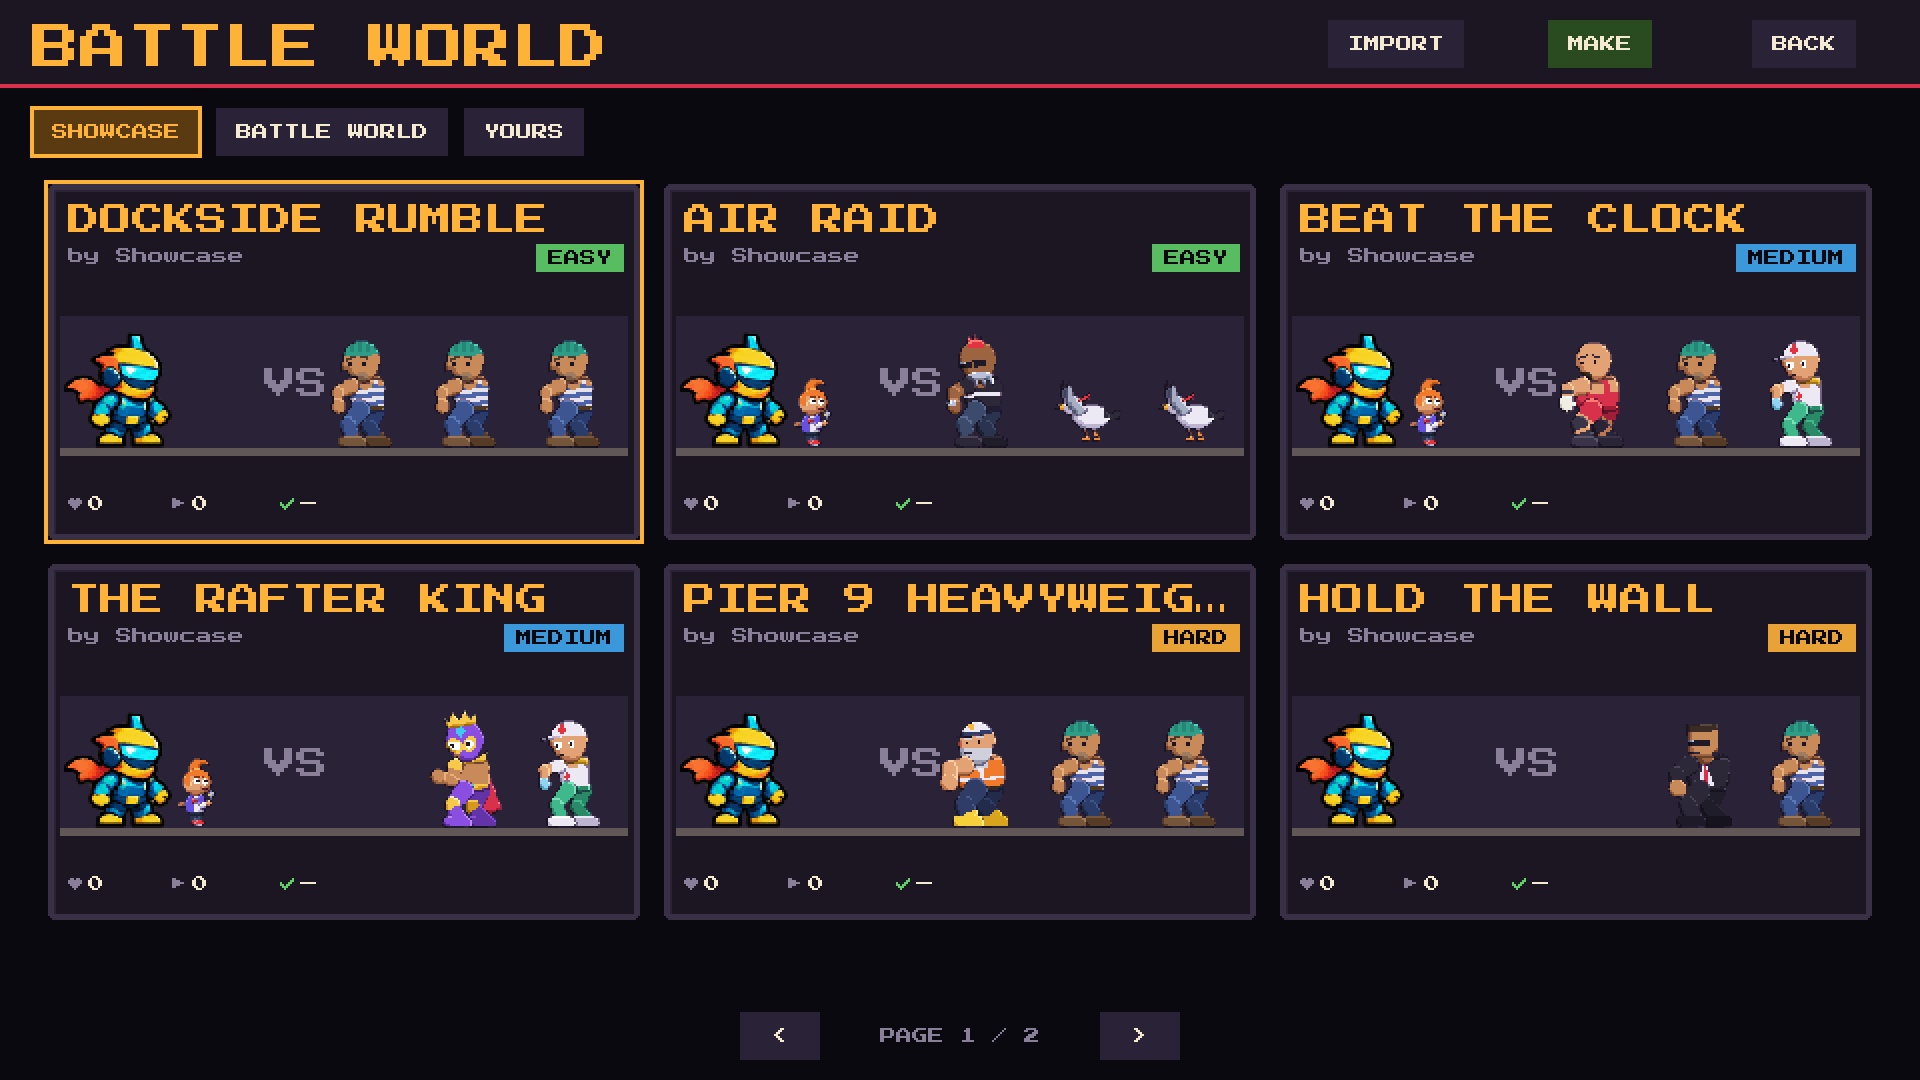
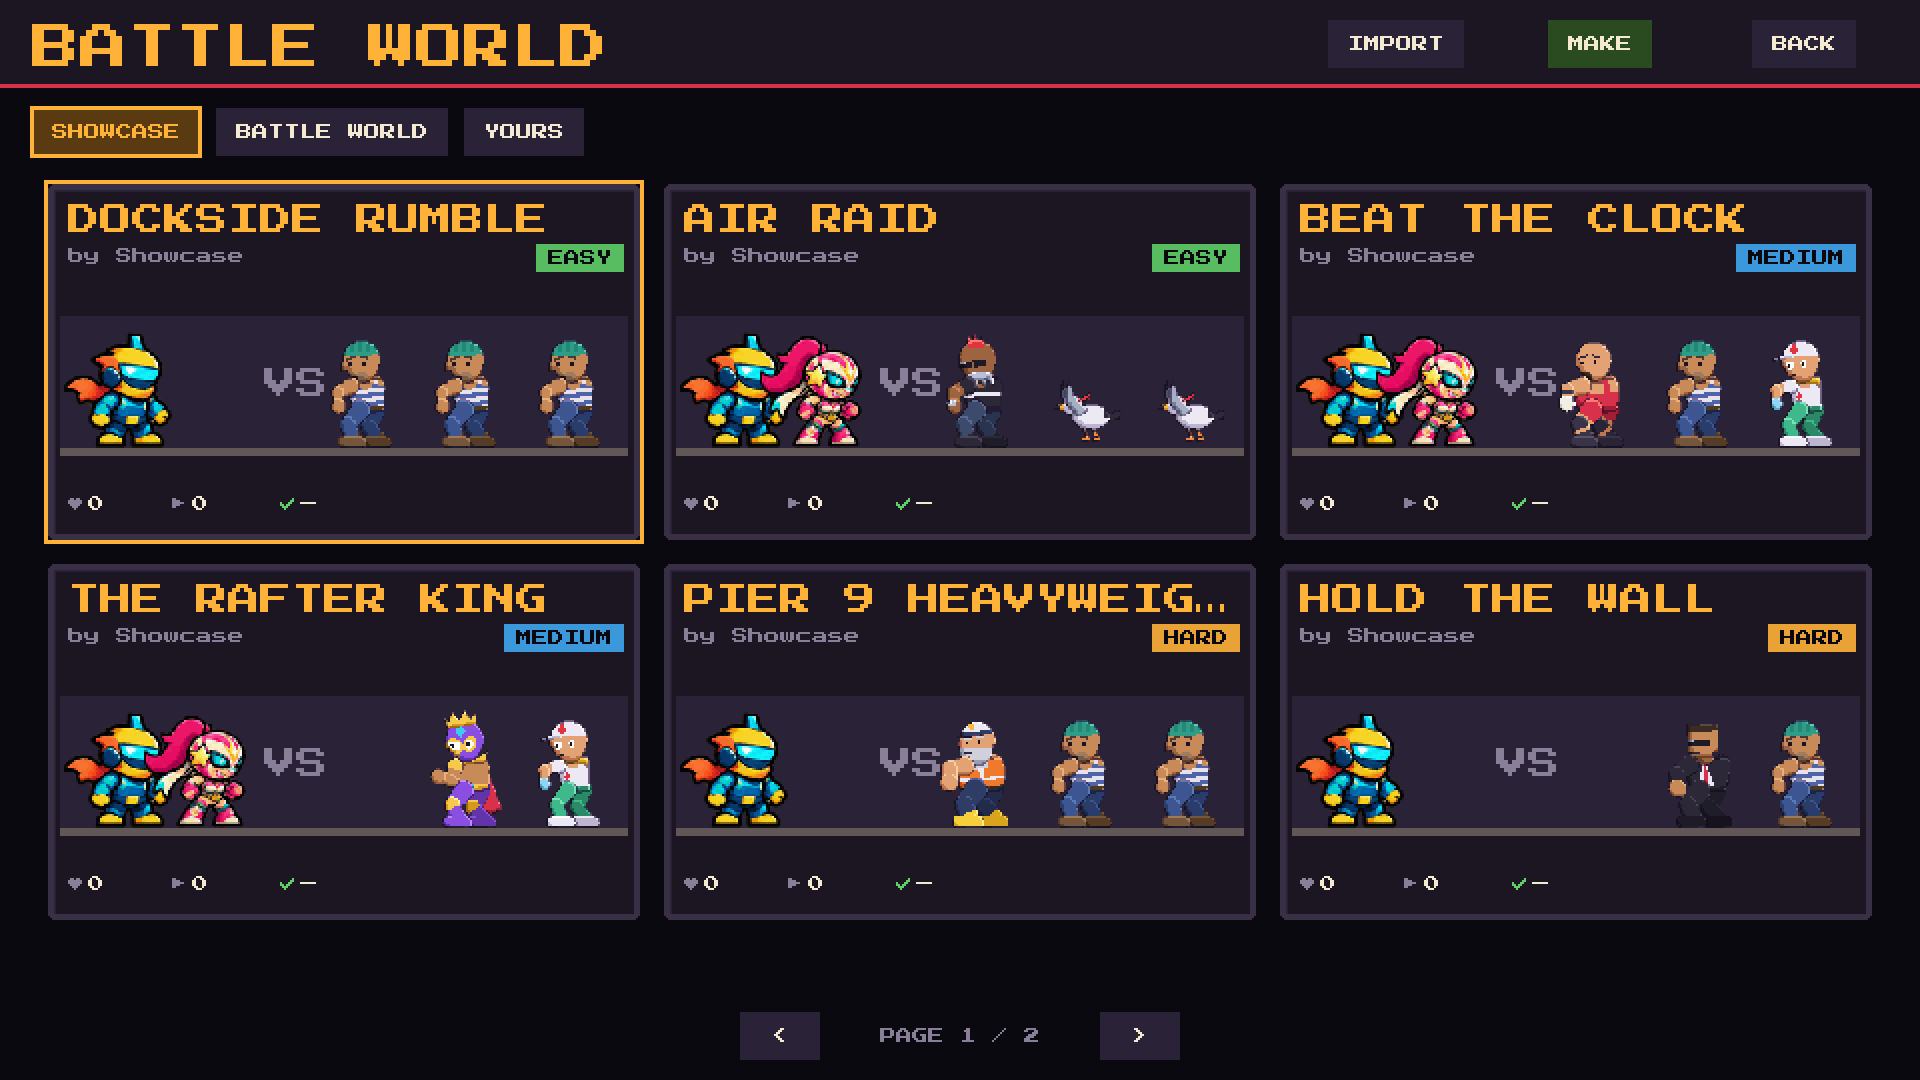
Pip's new look: the painted sidekick sheet, re-cut onto 96-px frames
tools/art/recut_painted.py re-cuts painted sheets whose rows and columns drift:
each row anchored on its floor, frames split at the narrowest gaps, one square
window for all, scaled and reduced to 256 colours. Source kept in
art/sprites/pip_v2_source.png; the first Pip as art/sprites/pip_v1.png.
Store screenshots refreshed.

Claude-Session: https://claude.ai/code/session_01QyvaQ22fJeH4nYnXb7669o

Changed region(s): [[0.7188, 0.3056, 0.7812, 0.4278], [0.375, 0.3056, 0.4688, 0.4278], [0.0625, 0.6417, 0.125, 0.7639]]

diff --git a/src/systems/opponent_art.ts b/src/systems/opponent_art.ts
@@ -1,5 +1,6 @@
 // The built-in fighters' finished art (the opponents and Pip, the partner): frame-by-frame sprite sheets drawn by
-// tools/art/opponents.py and tools/art/pip.py (one row per animation, like Kid Chispa's). They
+// tools/art/opponents.py, and Pip's painted sheet re-cut by tools/art/recut_painted.py from
+// art/sprites/pip_v2_source.png (one row per animation, like Kid Chispa's). They
 // replace the placeholder boxes wherever an opponent appears, unless you gave
 // it a skin.
 
@@ -19,7 +20,11 @@ import rafterKing from '../assets/opponents/rafter_king.png';
 import pip from '../assets/opponents/pip.png';
 
 /** The usual rows: idle 4, walk 8, attack 6, hurt 3, knocked out 4, victory 4. */
-function look(url: string, frame: number, fps: Partial<Record<'idle' | 'walk' | 'chop', number>> = {}): SheetLook {
+function look(
+  url: string,
+  frame: number,
+  fps: Partial<Record<'idle' | 'walk' | 'chop', number>> = {},
+): SheetLook {
   return {
     url,
     w: frame * 8,
@@ -47,7 +52,21 @@ export const OPPONENT_ART: Record<string, SheetLook> = {
   agent_brick: look(agentBrick, 240, { idle: 4, walk: 8, chop: 9 }),
   tugboat_tony: look(tugboatTony, 144, { idle: 4, walk: 10, chop: 10 }),
   rafter_king: look(rafterKing, 144),
-  pip: look(pip, 120, { idle: 5, walk: 12, chop: 10 }),
+  pip: {
+    url: pip,
+    w: 768,
+    h: 576,
+    frameW: 96,
+    frameH: 96,
+    anims: {
+      idle: { start: 0, count: 6, fps: 6 },
+      walk: { start: 8, count: 8, fps: 12 },
+      chop: { start: 16, count: 8, fps: 16 },
+      hurt: { start: 24, count: 4, fps: 12 },
+      ko: { start: 32, count: 6, fps: 10 },
+      win: { start: 40, count: 6, fps: 8 },
+    },
+  },
 };
 
 export const artKey = (id: string) => `spr_art_${id}`;

diff --git a/tools/art/recut_painted.py b/tools/art/recut_painted.py
@@ -1,0 +1,72 @@
+"""Re-cuts a painted sprite sheet whose rows and columns drift onto the game's grid.
+
+Each row is anchored on its own floor line. Each frame's left and right edges
+are found per row: the row is split into its frame count at the narrowest gaps
+in the drawing (near where an even split would put them), so frames joined by
+slash effects or stars are still cut between the figures. Every frame is put
+through the same square window (feet on the bottom, column centred), scaled to
+the game's frame size and reduced to 256 colours.
+
+Usage:
+  python3 tools/art/recut_painted.py SRC OUT --frame 96 \\
+      --bands 0:196,202:392,395:581,592:761,774:907,911:1085 --counts 6,8,8,4,6,6
+
+--bands are each row's top and floor (its feet) in the source, --counts the
+frames in each row. --window sets the square taken around each frame (default:
+the widest frame or tallest row, whichever is bigger).
+"""
+import argparse
+from PIL import Image
+
+ap = argparse.ArgumentParser()
+ap.add_argument("src")
+ap.add_argument("out")
+ap.add_argument("--frame", type=int, default=96)
+ap.add_argument("--bands", required=True)
+ap.add_argument("--counts", required=True)
+ap.add_argument("--window", type=int, default=0)
+ap.add_argument("--search", type=int, default=40, help="how far from an even split a cut may move")
+ap.add_argument("--haze", type=int, default=24, help="alpha below this becomes see-through")
+args = ap.parse_args()
+
+im = Image.open(args.src).convert("RGBA")
+alpha = im.getchannel("A").point(lambda v: 255 if v > 60 else 0)
+apx = alpha.load()
+F = args.frame
+bands = [tuple(int(v) for v in b.split(":")) for b in args.bands.split(",")]
+counts = [int(c) for c in args.counts.split(",")]
+
+
+def edges(top, floor, n):
+    """The n+1 x positions between this row's frames."""
+    col = [sum(1 for y in range(top, floor + 1) if apx[x, y]) for x in range(im.width)]
+    drawn = [x for x, v in enumerate(col) if v > 1]
+    x0, x1 = drawn[0], drawn[-1] + 1
+    out = [x0]
+    for k in range(1, n):
+        guess = out[-1] + (x1 - out[-1]) / (n - k + 1)
+        lo, hi = int(guess - args.search), int(guess + args.search)
+        best = min(range(max(out[-1] + 20, lo), min(x1 - 20, hi)), key=lambda x: (col[x], abs(x - guess)))
+        out.append(best)
+    out.append(x1)
+    return out
+
+
+rows = [(top, floor, edges(top, floor, n)) for (top, floor), n in zip(bands, counts)]
+widest = max(e[i + 1] - e[i] for _, _, e in rows for i in range(len(e) - 1))
+tallest = max(floor - top + 1 for top, floor, _ in rows)
+Wn = args.window or max(widest, tallest)
+cols = max(8, max(counts))
+sheet = Image.new("RGBA", (F * cols, F * len(bands)), (0, 0, 0, 0))
+for r, (top, floor, e) in enumerate(rows):
+    print(f"row {r}: floor {floor}, frames at {e}")
+    for c in range(len(e) - 1):
+        x0, x1 = e[c], e[c + 1]
+        part = im.crop((x0, max(top, floor + 1 - Wn), x1, floor + 1))
+        cell = Image.new("RGBA", (Wn, Wn), (0, 0, 0, 0))
+        cell.alpha_composite(part, ((Wn - part.width) // 2, Wn - part.height))
+        small = cell.convert("RGBa").resize((F, F), Image.LANCZOS).convert("RGBA")
+        small.putalpha(small.getchannel("A").point(lambda v: 0 if v < args.haze else v))
+        sheet.alpha_composite(small, (c * F, r * F))
+sheet.quantize(colors=256, method=Image.Quantize.FASTOCTREE, dither=Image.Dither.NONE).save(args.out, optimize=True)
+print("wrote", args.out, sheet.size, "window", Wn)

diff --git a/tools/art/pip.py b/tools/art/pip.py
@@ -2,7 +2,8 @@
 bowtie and a vest. Finished-style sheet on the shared rig (120-pixel frames,
 facing right like Kid Chispa).
 
-Usage: python3 tools/art/pip.py   (writes src/assets/opponents/pip.png)
+Usage: python3 tools/art/pip.py   (writes art/sprites/pip_v1.png, Pip's first look; the game now uses
+the painted sheet re-cut by tools/art/recut_painted.py, see art/sprites/pip_v2_source.png)
 """
 import math, os
 from rig import Part, capsule, ellipse, eye, ik, local, poly_at, ramp, rot, sheet, FLOOR
@@ -173,7 +174,7 @@ def rows():
 
 if __name__ == "__main__":
     img = sheet(rows(), PAL, 1.25)  # a touch bigger than the 96-pixel grid, drawn with more pixels
-    out = os.path.join(os.path.dirname(__file__), "..", "..", "src", "assets", "opponents", "pip.png")
+    out = os.path.join(os.path.dirname(__file__), "..", "..", "art", "sprites", "pip_v1.png")
     img.save(out)
     big = img.resize((img.width * 3, img.height * 3), 0)
     print("wrote pip", img.size)

diff --git a/release/itch/STORE_PAGE.md b/release/itch/STORE_PAGE.md
@@ -66,7 +66,7 @@ Everything to fill in on itch.io's "Create a new project" form, in the form's or
 |---|---|
 | Genre | Role Playing |
 | Tags | turn-based, wrestling, level-editor, pixel-art, retro, singleplayer, sandbox, 2d |
-| AI generation disclosure | itch asks whether the project uses generative AI. The code and the sprites of Pip and the opponents were made with Claude; Kid Chispa's sprite is the one you supplied. Answer for code and graphics accordingly. |
+| AI generation disclosure | itch asks whether the project uses generative AI. The code and the opponents' sprites were made with Claude; Kid Chispa's and Pip's sprites are the ones you supplied. Answer for code and graphics accordingly. |
 | Custom noun | battle maker |
 | Inputs | Keyboard, Mouse, Touchscreen |
 | Accessibility | (leave empty) |
